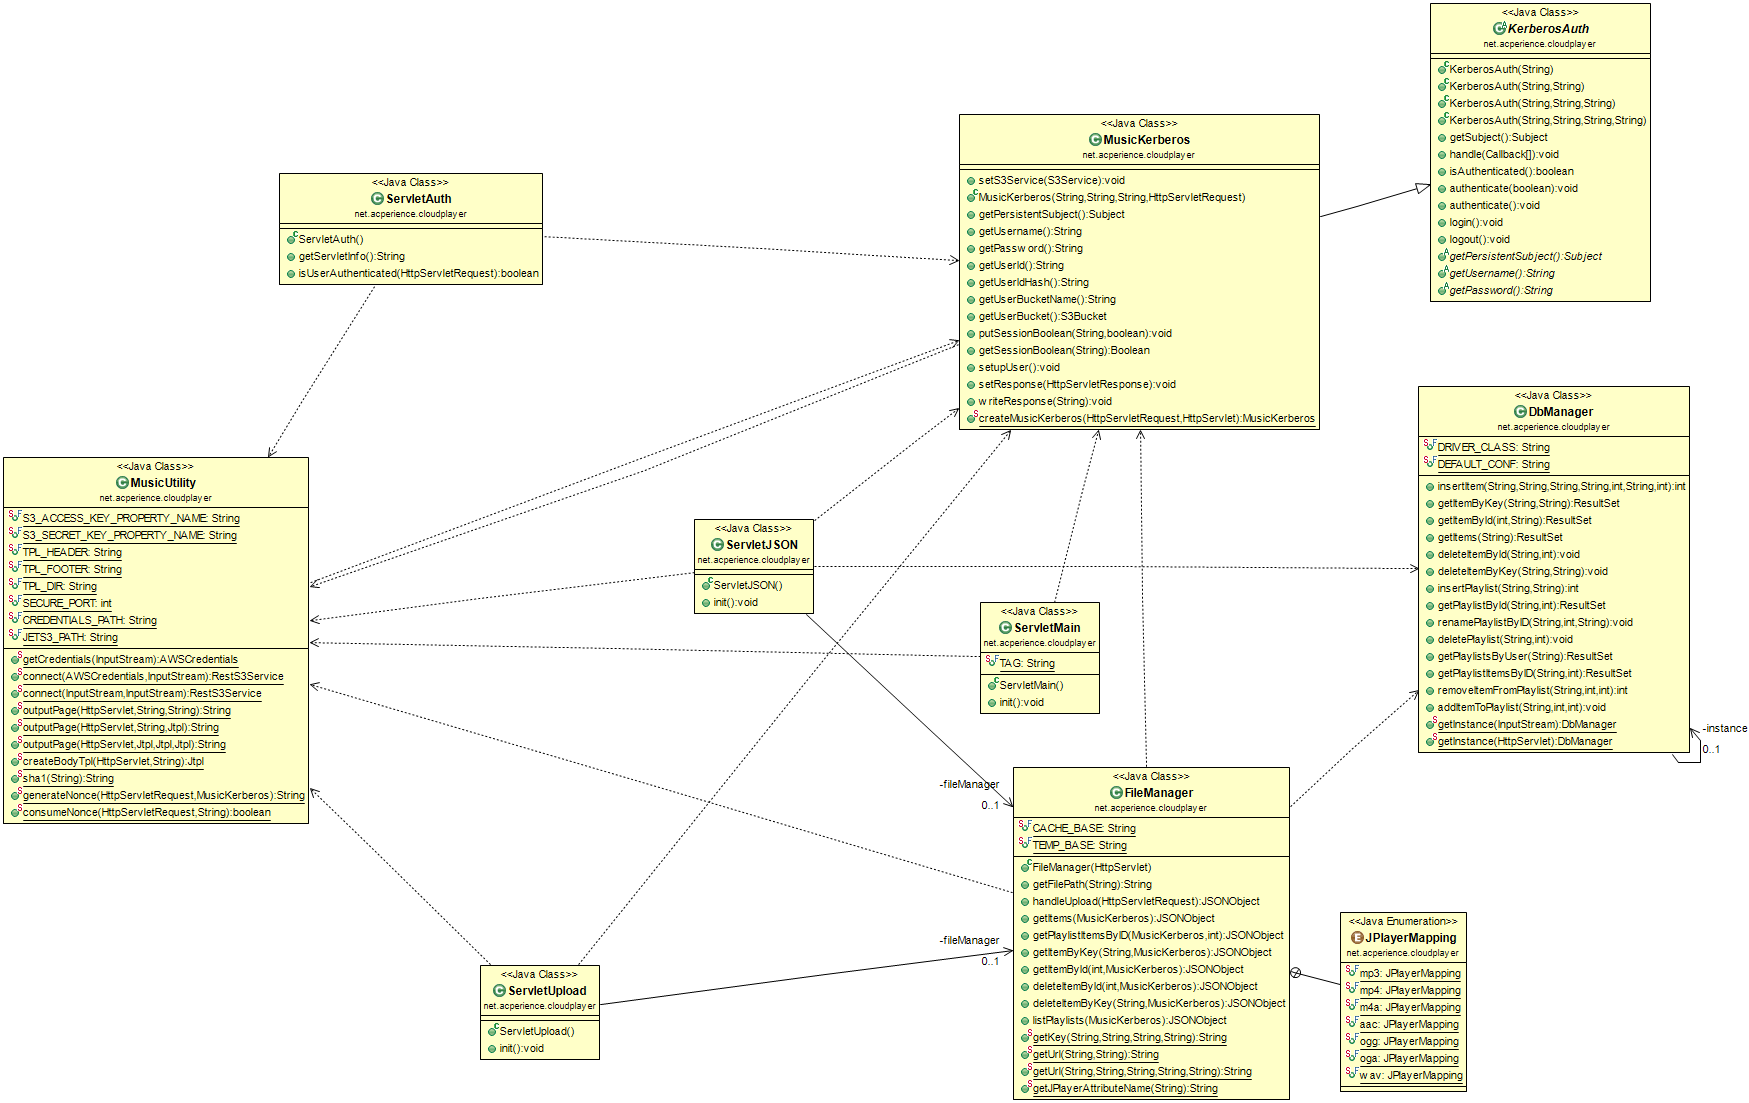
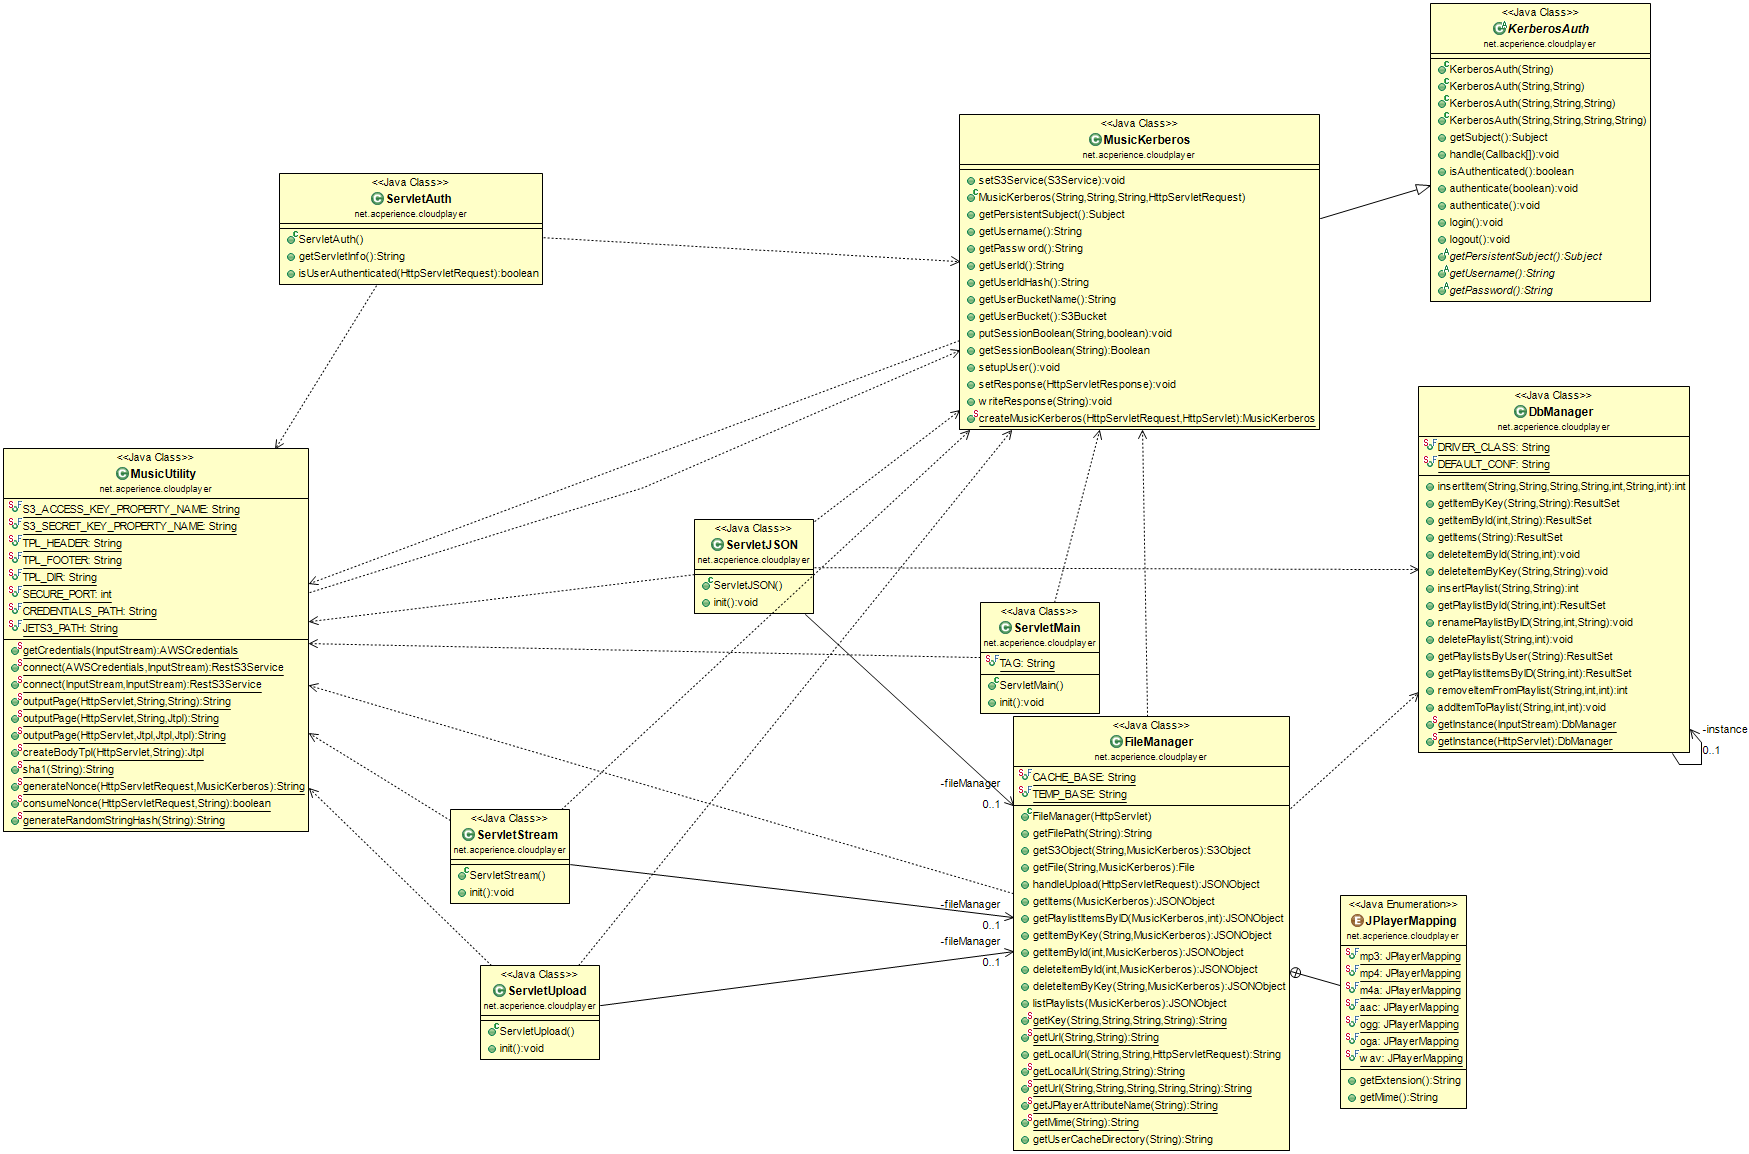
Updated UML + Readme

diff --git a/README.md b/README.md
@@ -1,6 +1,4 @@
 ICCloudCoursework
 =================
 
-Create your own folder with your username/initials/something!
-
-If someone is familiar with Git branching and merging magic, let me know! Must be a more efficient way to collaborate right?
+Code for Distributed Systems Coursework.
